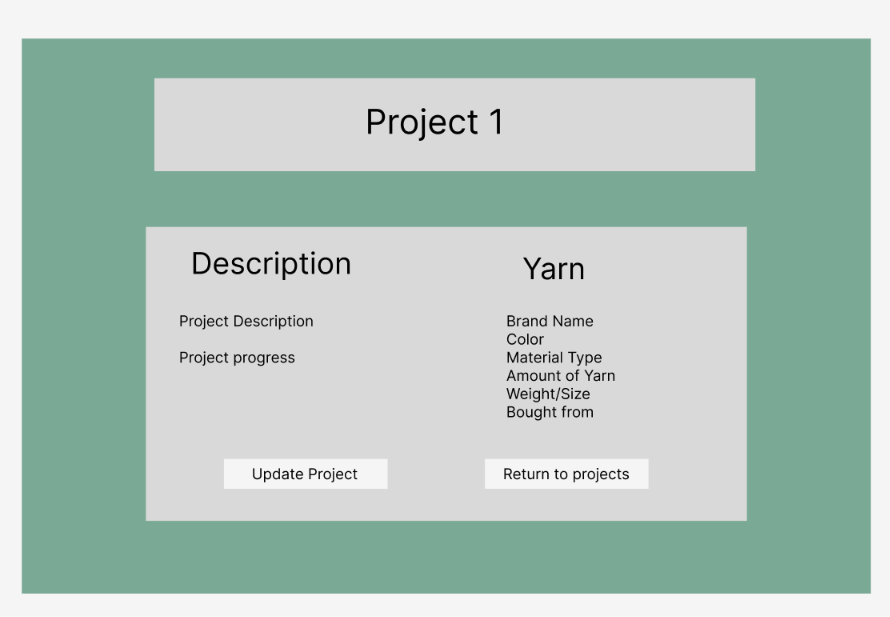
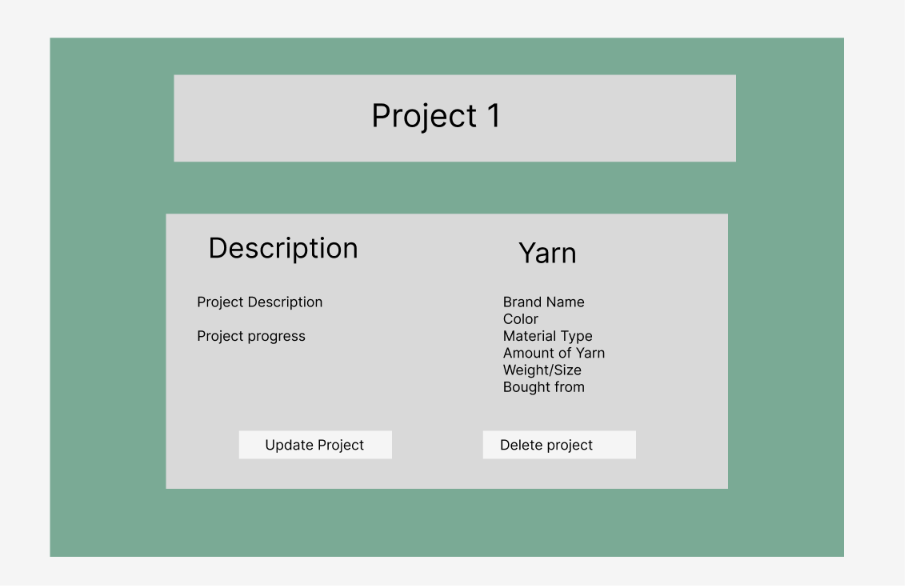
updated screenshots, project plan, user stories and readme

diff --git a/projectPlan.md b/projectPlan.md
@@ -14,7 +14,7 @@
 - [X] Log4J is implemented (no System.out.printlns)
 - [X] Create table in database to hold projects - want to make, in process and completed. 
 - [X] Checkpoint 2 completed
-- [ ] AWS Cognito implemented for security 
+- [X] AWS Cognito implemented for security 
 
 # Week 8 
 - [ ] Update index JSP
@@ -47,6 +47,7 @@
 - [ ] User wants to be able to update projects. Create update JSP. 
 
 # Week 12
+- [ ] User wants to be able to delete projects. Create delete project JSP.
 - [ ] Finish any work that needs completing.
 - [ ] Prepare for presentation.
 

diff --git a/Design Documents/userStories.md b/Design Documents/userStories.md
@@ -32,3 +32,6 @@
 
 ## Update Password
 - User wants to be able to update password to protect yarn information. 
+
+## Remove Projects
+- User wants to be able to delete projects if they made an error entering it or changed their mind. 
